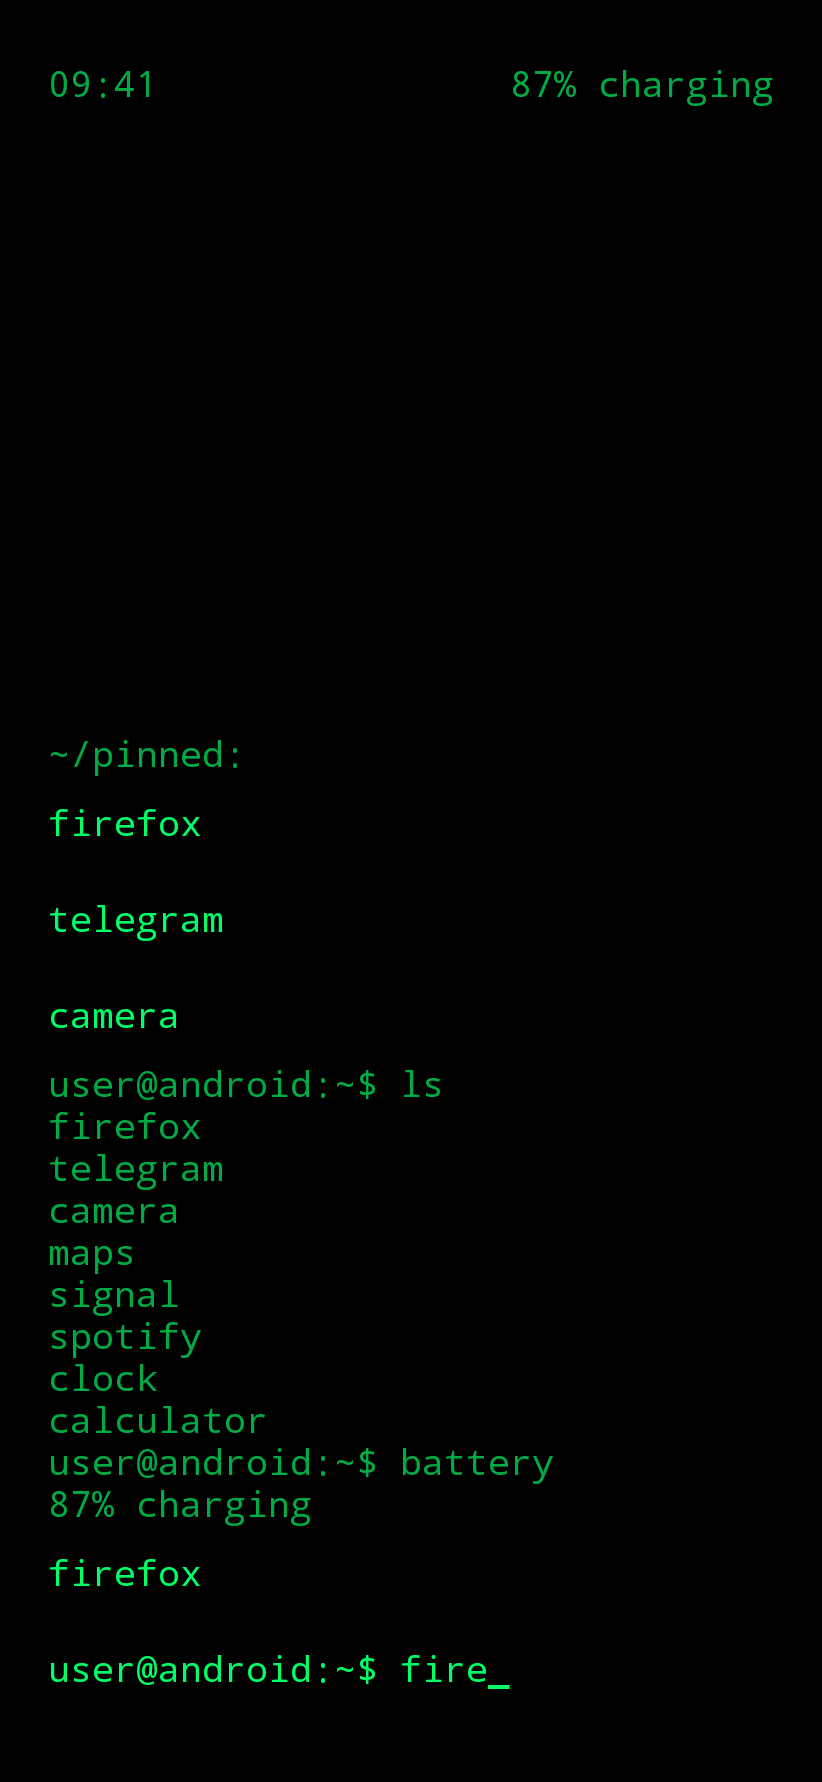
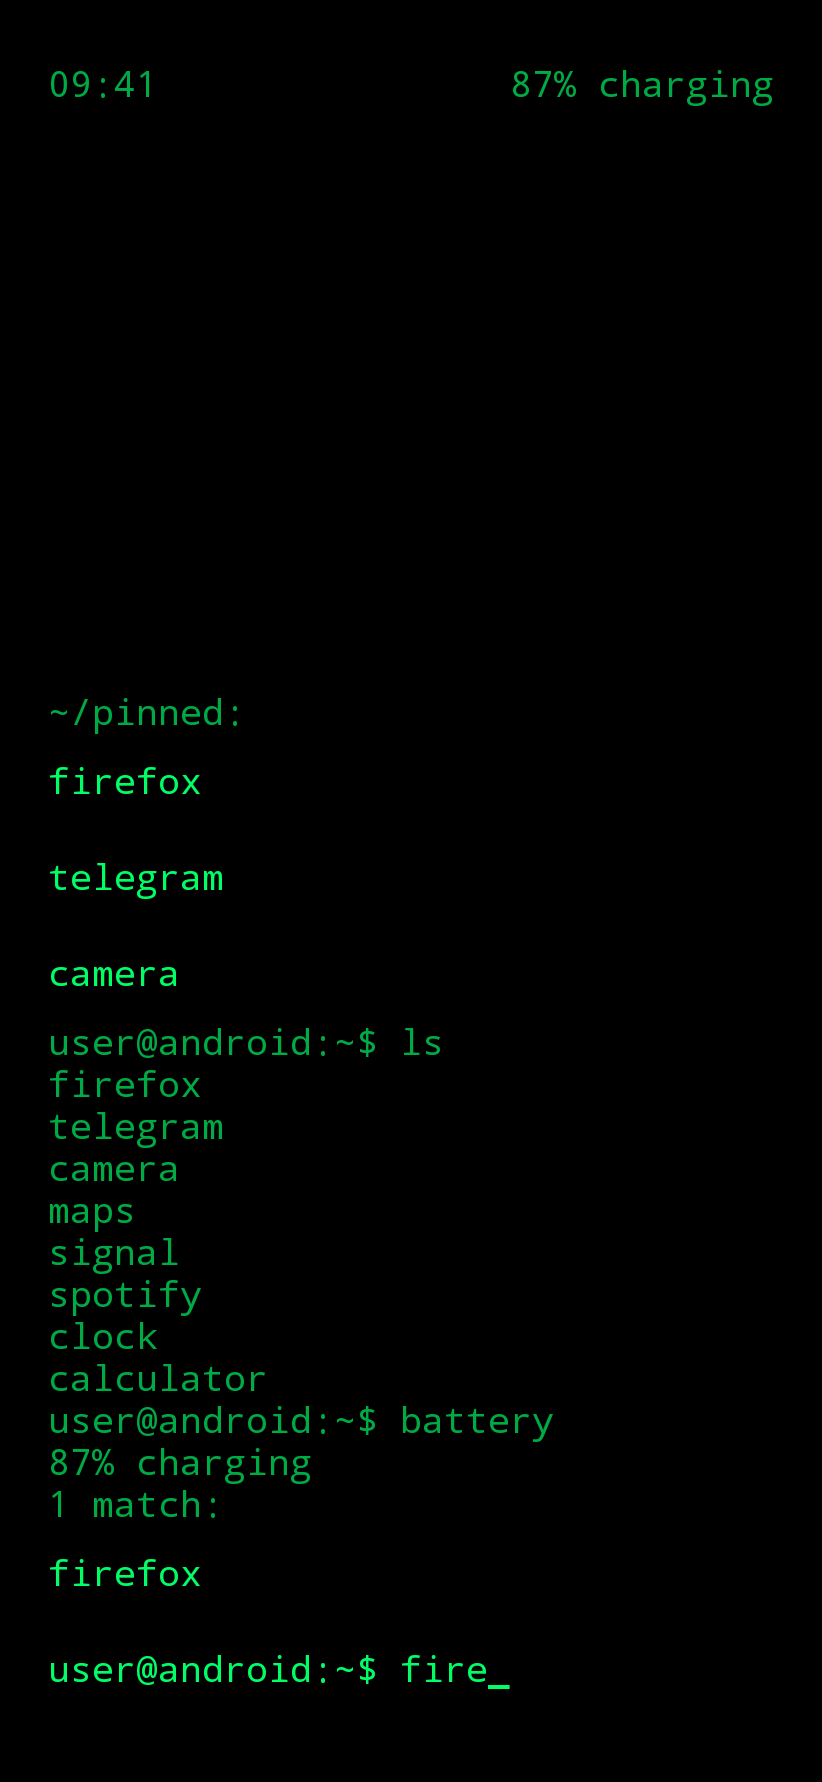
Announce the search results above the prompt (#83)
Closes #80

What the typed line matches was written as bare rows, indistinguishable
from the pinned rows above them, and a search matching nothing was
written as nothing at all, which reads the same as a search that never
started.

Unix announces the results, counting them:

```
1 match:
firefox
user@android:~$ fire_
```

```
no matches
user@android:~$ zzz_
```

DOS closes them the way `DIR` closes a listing, and answers an empty
search with the message it already answers a failed one with:

```
SIGNAL.EXE
SPOTIFY.EXE

2 File(s) found

C:\HOME> S_
```

```
File not found

C:\HOME> ZZZ_
```

## How

`ShellProfile.formatSearchSection(matches)` returns the `SectionLines`
#79 introduced, and `HomeScreen` places them around the result rows with
the same `sectionRow` helper. The DOS override reuses the file count it
already writes after a listing.

The section is written whenever the prompt holds a non-blank line, and
nothing at all while it is empty. That includes the moment a command is
being typed, since `AppSearchEngine.search` runs on every non-blank line
and a command name usually matches no application. It stays true, and
Enter runs the command all the same.

The pinned block stays on screen while a search runs. Nothing a terminal
printed erases itself, and the two section lines are what tells the
lists apart.

## Tests

- Both profiles pin their section, including the singular `1 match:` and
the two ends DOS answers with.
[…]

diff --git a/app/src/test/java/com/gybra/terminallauncher/ui/home/HomeScreenTest.kt b/app/src/test/java/com/gybra/terminallauncher/ui/home/HomeScreenTest.kt
@@ -196,6 +196,84 @@ class HomeScreenTest {
     }
 
     @Test
+    fun `announces the results with what the shell counted`() {
+        val app = InstalledApp(packageName = "com.example.mail", label = "Mail")
+        composeRule.setContent {
+            HomeScreen(
+                state = homeState().copy(
+                    searchResults = listOf(SearchResult(app = app, match = Match.EXACT)),
+                    prompt = PromptState(input = "mai"),
+                ),
+                onAppClick = {},
+                onShortcutClick = {},
+                onLockScreen = {},
+                promptActions = emptyPromptActions(),
+            )
+        }
+
+        composeRule.onNodeWithText("1 match:").assertIsDisplayed().assertHasNoClickAction()
+    }
+
+    @Test
+    fun `says so when the typed line matches nothing`() {
+        composeRule.setContent {
+            HomeScreen(
+                state = homeState().copy(prompt = PromptState(input = "zzz")),
+                onAppClick = {},
+                onShortcutClick = {},
+                onLockScreen = {},
+                promptActions = emptyPromptActions(),
+            )
+        }
+
+        composeRule.onNodeWithText("no matches").assertIsDisplayed()
+    }
+
+    @Test
+    fun `announces nothing while the prompt is empty`() {
+        composeRule.setContent {
+            HomeScreen(
+                state = homeState(),
+                onAppClick = {},
+                onShortcutClick = {},
+                onLockScreen = {},
+                promptActions = emptyPromptActions(),
+            )
+        }
+
+        composeRule.onNodeWithText("no matches").assertDoesNotExist()
+    }
+
+    @Test
+    fun `closes the DOS results with what it counted, and says when it found none`() {
+        val app = InstalledApp(packageName = "com.example.mail", label = "Mail")
+        var state by mutableStateOf(
+            homeState().copy(
+                shellProfile = DosShellProfile,
+                searchResults = listOf(SearchResult(app = app, match = Match.EXACT)),
+                prompt = PromptState(input = "MAI"),
+            ),
+        )
+        composeRule.setContent {
+            HomeScreen(
+                state = state,
+                onAppClick = {},
+                onShortcutClick = {},
+                onLockScreen = {},
+                promptActions = emptyPromptActions(),
+            )
+        }
+        composeRule.onNodeWithText("1 File(s) found").assertIsDisplayed()
+
+        composeRule.runOnIdle {
+            state = state.copy(searchResults = emptyList(), prompt = PromptState(input = "ZZZ"))
+        }
+        composeRule.waitForIdle()
+
+        composeRule.onNodeWithText("File not found").assertIsDisplayed()
+    }
+
+    @Test
     fun `renders a matching pinned application as both a pinned row and a result`() {
         val app = InstalledApp(packageName = "com.example.mail", label = "Mail")
 

diff --git a/app/src/main/java/com/gybra/terminallauncher/ui/home/HomeScreen.kt b/app/src/main/java/com/gybra/terminallauncher/ui/home/HomeScreen.kt
@@ -112,7 +112,7 @@ public fun HomeScreen(
  */
 private val HomeUiState.rowCount: Int
     get() = apps.size + shortcuts.size + history.size + searchResults.size +
-        (if (helpInvitation == null) 0 else 1) + pinnedSection.rowCount
+        (if (helpInvitation == null) 0 else 1) + pinnedSection.rowCount + searchSection.rowCount
 
 /** The lines the shell frames the pinned rows with, and none at all when Home holds none. */
 private val HomeUiState.pinnedSection: SectionLines
@@ -120,6 +120,14 @@ private val HomeUiState.pinnedSection: SectionLines
         SectionLines()
     } else {
         shellProfile.formatPinnedSection(shellContext, items = apps.size + shortcuts.size)
+    }
+
+/** The lines the shell frames the results with, and none at all while the prompt is empty. */
+private val HomeUiState.searchSection: SectionLines
+    get() = if (prompt.input.isBlank()) {
+        SectionLines()
+    } else {
+        shellProfile.formatSearchSection(matches = searchResults.size)
     }
 
 /** How many rows a section takes, since each side of it is written as one row of lines. */
@@ -162,6 +170,8 @@ private fun LazyListScope.searchResults(
     state: HomeUiState,
     rowActions: RowActions,
 ) {
+    val section = state.searchSection
+    sectionRow(item = HomeItem.SEARCH_HEADER, lines = section.above)
     items(
         items = state.searchResults,
         key = { result -> HomeItem.SEARCH.rowKey(result.app.packageName) },
@@ -172,6 +182,7 @@ private fun LazyListScope.searchResults(
             onLongClick = { rowActions.onAppLongClick(result.app) },
         )
     }
+    sectionRow(item = HomeItem.SEARCH_FOOTER, lines = section.below)
 }
 
 /** Lists what Home keeps above the prompt: the pinned applications, then the pinned shortcuts. */

diff --git a/app/src/main/java/com/gybra/terminallauncher/shell/ShellProfile.kt b/app/src/main/java/com/gybra/terminallauncher/shell/ShellProfile.kt
@@ -38,6 +38,20 @@ public interface ShellProfile {
         SectionLines(above = listOf("${formatPath(context)}/$PINNED_DIRECTORY:"))
 
     /**
+     * Writes the lines that frame what the typed line matches, announcing how many were found and
+     * saying so when there were none, since a search with no result must not read like a search
+     * that never ran.
+     */
+    public fun formatSearchSection(matches: Int): SectionLines =
+        SectionLines(above = listOf(formatMessage(countMatches(matches))))
+
+    private fun countMatches(matches: Int): String = when (matches) {
+        0 -> "no matches"
+        1 -> "1 match:"
+        else -> "$matches matches:"
+    }
+
+    /**
      * Describes [commands] with the primary alias of this shell, so optional aliases accepted only
      * for compatibility stay out of the help output. A command taking arguments is followed by the
      * ways it is invoked, indented under its description.

diff --git a/app/src/test/java/com/gybra/terminallauncher/shell/unix/UnixShellProfileTest.kt b/app/src/test/java/com/gybra/terminallauncher/shell/unix/UnixShellProfileTest.kt
@@ -190,6 +190,22 @@ class UnixShellProfileTest {
     }
 
     @Test
+    fun `announces what the typed line matched, counting the results`() {
+        assertEquals(
+            SectionLines(above = listOf("no matches")),
+            profile.formatSearchSection(matches = 0),
+        )
+        assertEquals(
+            SectionLines(above = listOf("1 match:")),
+            profile.formatSearchSection(matches = 1),
+        )
+        assertEquals(
+            SectionLines(above = listOf("3 matches:")),
+            profile.formatSearchSection(matches = 3),
+        )
+    }
+
+    @Test
     fun `invites the help command on an empty Home`() {
         assertEquals("type help to list the commands", profile.formatHelpInvitation())
     }

diff --git a/app/src/main/java/com/gybra/terminallauncher/shell/dos/DosShellProfile.kt b/app/src/main/java/com/gybra/terminallauncher/shell/dos/DosShellProfile.kt
@@ -73,6 +73,15 @@ public object DosShellProfile : ShellProfile {
         )
     }
 
+    /** Closes the results the way DIR closes a listing, with the message it answers an empty one with. */
+    override fun formatSearchSection(matches: Int): SectionLines = SectionLines(
+        below = if (matches == 0) {
+            listOf("File not found")
+        } else {
+            listOf("", "${fileCount(matches)} found")
+        },
+    )
+
     override fun formatHelp(commands: List<CommandSummary>): List<String> =
         super.formatHelp(commands) + listOf("", "${commands.size} Command(s)")
 

diff --git a/app/src/test/java/com/gybra/terminallauncher/shell/dos/DosShellProfileTest.kt b/app/src/test/java/com/gybra/terminallauncher/shell/dos/DosShellProfileTest.kt
@@ -188,4 +188,16 @@ class DosShellProfileTest {
             profile.formatPinnedSection(context, items = 1).above,
         )
     }
+
+    @Test
+    fun `closes what the typed line matched the way DIR closes a listing`() {
+        assertEquals(
+            SectionLines(below = listOf("", "3 File(s) found")),
+            profile.formatSearchSection(matches = 3),
+        )
+        assertEquals(
+            SectionLines(below = listOf("File not found")),
+            profile.formatSearchSection(matches = 0),
+        )
+    }
 }

diff --git a/app/src/main/java/com/gybra/terminallauncher/ui/home/HomeItem.kt b/app/src/main/java/com/gybra/terminallauncher/ui/home/HomeItem.kt
@@ -10,6 +10,8 @@ public enum class HomeItem(public val key: String) {
     PINNED_FOOTER("pinned-footer"),
     SHORTCUT("shortcut"),
     SEARCH("search"),
+    SEARCH_HEADER("search-header"),
+    SEARCH_FOOTER("search-footer"),
     HISTORY("history"),
     ;
 

diff --git a/docs/design.md b/docs/design.md
@@ -6,7 +6,7 @@ stays a front page. The commands each shell accepts are listed
 
 ## Using the launcher
 
-Type at the prompt. Matching applications appear right above it as you type; tap one to launch it, or press Enter when a single application matches. Enter always consumes the line, the way a desktop terminal does: the line joins the terminal history under the prompt that submitted it, the prompt is cleared, and an answer is written even when nothing was launched. A name matching nothing is answered with `no application matches`, and a name matching several is answered with its candidates, which stay tappable rather than launching something arbitrary. The commands that resolve a name, such as `pin` and `alias`, answer an unresolved name the same way and list the same startable candidates. Enter on an empty prompt does nothing, since a blank line would only push printed output out of the history. Tapping a row clears the prompt as well, since the tap answered what was typed: the pinned applications, the pinned shortcuts, whatever a command listed, and the search results all behave the same, and the history stays, so `clear` keeps its meaning.
+Type at the prompt. Matching applications appear right above it as you type; tap one to launch it, or press Enter when a single application matches. Enter always consumes the line, the way a desktop terminal does: the line joins the terminal history under the prompt that submitted it, the prompt is cleared, and an answer is written even when nothing was launched. The results say what they are: how many were found, or that none were. A name matching nothing is answered with `no application matches`, and a name matching several is answered with its candidates, which stay tappable rather than launching something arbitrary. The commands that resolve a name, such as `pin` and `alias`, answer an unresolved name the same way and list the same startable candidates. Enter on an empty prompt does nothing, since a blank line would only push printed output out of the history. Tapping a row clears the prompt as well, since the tap answered what was typed: the pinned applications, the pinned shortcuts, whatever a command listed, and the search results all behave the same, and the history stays, so `clear` keeps its meaning.
 
 Holding a row writes the command it offers into the prompt instead of starting it: `unpin` for an application Home keeps, `pin` for one it only found, and the `shortcuts` command with its pinning or removing form for a shortcut. The line arrives ready to read and edit, with the prompt focused and the cursor at the end, and nothing runs until it is submitted. The command word is written in the case of the shell, so DOS writes `UNPIN`, while the name is left as the application carries it, since the parser resolves that name rather than the decorated one a list writes. Home teaches its own commands while it is used, without a menu.
 
@@ -49,6 +49,8 @@ Home keeps one status line fixed above everything else, where scrolling never ta
 Home is read from the bottom, the way a terminal is. The prompt is anchored under everything else and stays there: the software keyboard pushes it up instead of covering it, and the rows above it never move it. Between the status line and the prompt, the pinned applications, the pinned shortcuts, the terminal history, and the search results share one scrolling region that rests on the bottom, so a Home holding little keeps it within reach of the thumb rather than hanging from the top of the screen. Whatever is printed or listed last is scrolled into view, so the answer to a command sits next to the line that asked for it.
 
 The pinned block says what it is. The shell writes a line above it naming what it lists, the way its own listing command names a directory: Unix writes `~/pinned:` as `ls` writes the path it was asked to list, while DOS writes `Directory of C:\HOME\PINNED` and closes the block with the file count `DIR` prints, on the drive the settings chose whether or not the prompt shows the path. Applications and shortcuts share the one section, since DOS already tells them apart through `.EXE` and `.LNK` and a second heading would take half of the space above the prompt. A Home with nothing pinned writes no section at all, and the lines are inert: they carry the arrested colour and answer no touch.
+
+What the typed line matches is framed the same way, right above the prompt that is matching it. Unix announces the results before writing them, counting them as `1 match:` or `3 matches:`, while DOS closes them with `3 File(s) found` and answers an empty search with `File not found`, the message it already answers a failed listing with. The announcement appears as soon as the prompt holds anything, which includes the moment a command is being typed, since the search runs on every line and a command name usually matches no application: saying `no matches` there stays true, and Enter runs the command all the same. The pinned block stays where it is while a search runs, since nothing a terminal printed erases itself, and the two announcements are what tell the lists apart.
 
 Colour carries one distinction and only one: what can be started is written in the full terminal colour, and what is merely written, the status line, what a command printed, and the lines already submitted, is arrested to the second colour of the theme. A startable row is tall enough to be operated with a finger and centres its text in that height, while the written lines keep the tight spacing of a terminal, so a block of output reads as one block instead of a list of sentences. Pressing a startable row swaps the two colours for as long as it is held, the way a TTY marks a selection, which is the whole of the feedback a touch gets and costs the launcher no colour outside the selected theme.
 
